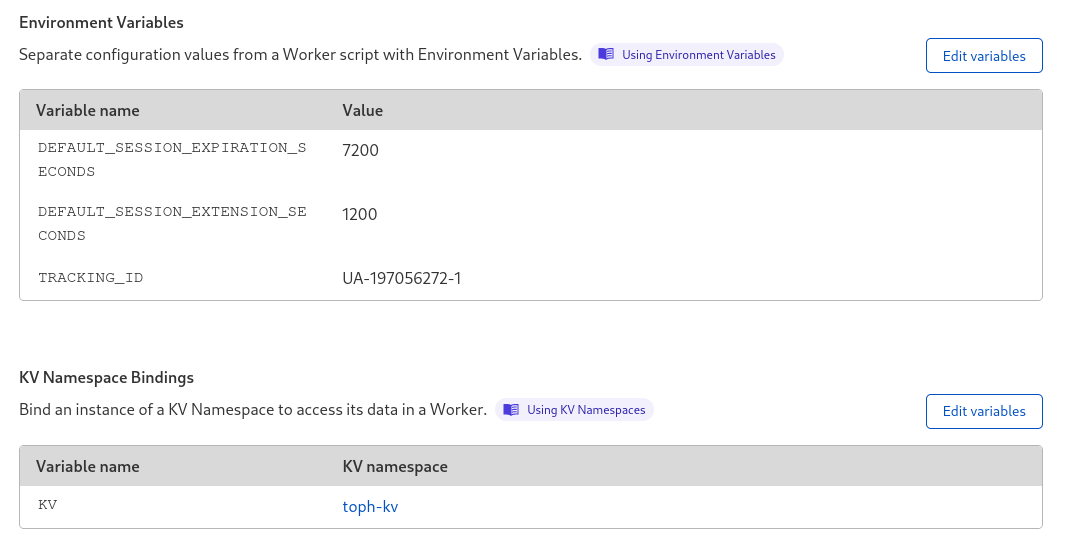
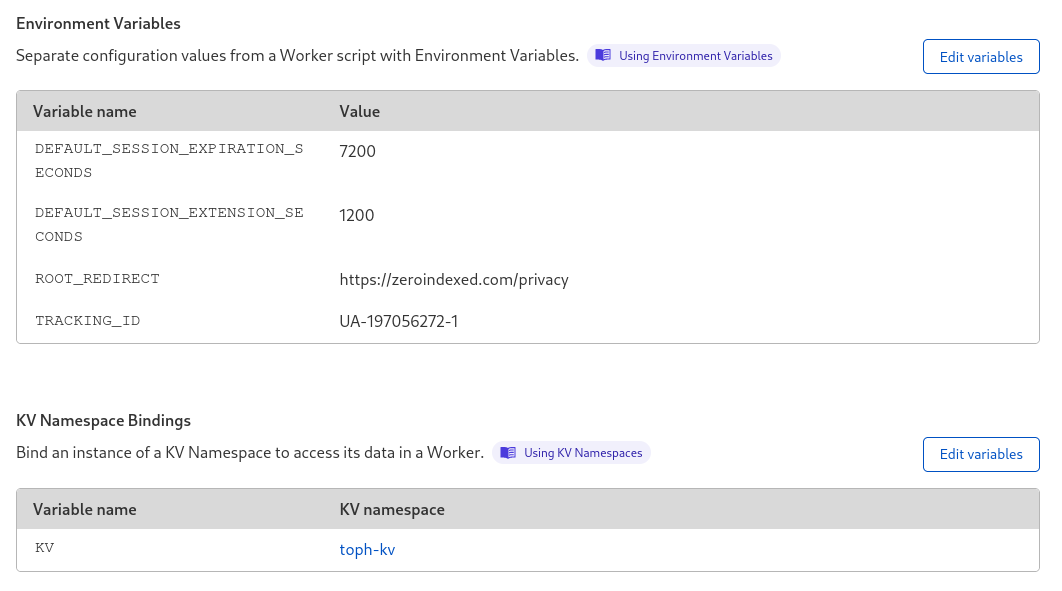
Toph now supports a redirect for the root path

diff --git a/packages/toph-pulumi/src/index.ts b/packages/toph-pulumi/src/index.ts
@@ -15,6 +15,7 @@ export interface TophArgs {
     trackingId: pulumi.Input<string>;
     defaultSessionExtensionSeconds: pulumi.Input<number>;
     defaultSessionExpirationSeconds: pulumi.Input<number>;
+    rootRedirect?: pulumi.Input<string>;
 }
 
 export class Toph extends pulumi.ComponentResource {
@@ -31,25 +32,34 @@ export class Toph extends pulumi.ComponentResource {
             {parent: this},
         );
 
+        const plainTextBindings: Array<cloudflare.types.input.WorkerScriptPlainTextBinding> = [
+            {
+                name: "TRACKING_ID",
+                text: args.trackingId,
+            },
+            {
+                name: "DEFAULT_SESSION_EXPIRATION_SECONDS",
+                text: `${args.defaultSessionExpirationSeconds}`,
+            },
+            {
+                name: "DEFAULT_SESSION_EXTENSION_SECONDS",
+                text: `${args.defaultSessionExtensionSeconds}`,
+            },
+        ];
+
+        if (args.rootRedirect != null) {
+            plainTextBindings.push({
+                name: "ROOT_REDIRECT",
+                text: args.rootRedirect,
+            });
+        }
+
         const workerScript = new cloudflare.WorkerScript(
             "toph",
             {
                 name: pulumi.concat(args.subdomain, "-worker"),
                 content: WORKER_SCRIPT,
-                plainTextBindings: [
-                    {
-                        name: "TRACKING_ID",
-                        text: args.trackingId,
-                    },
-                    {
-                        name: "DEFAULT_SESSION_EXPIRATION_SECONDS",
-                        text: `${args.defaultSessionExpirationSeconds}`,
-                    },
-                    {
-                        name: "DEFAULT_SESSION_EXTENSION_SECONDS",
-                        text: `${args.defaultSessionExtensionSeconds}`,
-                    },
-                ],
+                plainTextBindings,
                 kvNamespaceBindings: [
                     {
                         name: "KV",

diff --git a/packages/toph-worker/src/index.ts b/packages/toph-worker/src/index.ts
@@ -26,6 +26,7 @@ interface TophConfig {
     trackingId: string;
     defaultSessionExpiration: Expiration;
     defaultSessionExtension: Extension;
+    rootRedirect: string | null;
 }
 
 const TophConfig = {
@@ -56,11 +57,17 @@ const TophConfig = {
             throw new Error("KV is not an object");
         }
 
+        let rootRedirect: string | null = null;
+        if (typeof env["ROOT_REDIRECT"] === "string") {
+            rootRedirect = env["ROOT_REDIRECT"];
+        }
+
         return {
             kv: kv as KVNamespace,
             trackingId,
             defaultSessionExpiration,
             defaultSessionExtension,
+            rootRedirect,
         };
     },
 };
@@ -81,6 +88,22 @@ addEventListener("fetch", (event) => {
 async function onFetch(request: Request): Promise<Response> {
     const config = TophConfig.fromGlobalThis();
     const url = new URL(request.url);
+
+    if (url.pathname === "/") {
+        if (config.rootRedirect == null) {
+            return buildTextResponse({
+                status: 404,
+                body: "No ROOT_REDIRECT set",
+            });
+        } else {
+            return new Response("", {
+                status: 302,
+                headers: {
+                    "Location": config.rootRedirect,
+                },
+            });
+        }
+    }
 
     if (url.pathname === "/pageview") {
         const pageView = PageViewRequest.fromRequest(request, {

diff --git a/packages/pulumi/src/toph.ts b/packages/pulumi/src/toph.ts
@@ -10,5 +10,6 @@ export function makeToph(config: Config): void {
         trackingId: config.toph.trackingId,
         defaultSessionExpirationSeconds: 60 * 60 * 2, // 2 hours
         defaultSessionExtensionSeconds: 60 * 20, // 20 minutes
+        rootRedirect: `https://${config.cloudflare.zone}/privacy`,
     });
 }

diff --git a/packages/toph-worker/README.md b/packages/toph-worker/README.md
@@ -28,9 +28,24 @@ The `src` attribute tells the the browser to fetch the [`/pageview` API][this-ap
 
 ### API
 
-Toph supports a single endpoint, `/pageview`, which sends a [`t=pageview` hit][ga-pageview] to Google Universal Analytics.
+Toph supports a small HTTP API:
 
-`/pageview` does not care what HTTP method it was invoked with, `GET`, `POST`, `PUT`, etc. are all supported.
+-   `/`: intended to redirect curious visitors to a URL of your choosing, like a privacy policy.
+-   `/pageview`: collects page view hits and forwards them to Google Universal Analytics.
+
+---
+
+The `/` API will issue an HTTP 302 redirect to the configured `ROOT_REDIRECT` (see [deployment][this-deployment]).
+
+This environment variable is optional, not specifying it will result in `/` responded with HTTP 404.
+
+`/` does not distinguish what HTTP method it was invoked with.
+
+---
+
+`/pageview` sends a [`t=pageview` hit][ga-pageview] to Google Universal Analytics.
+
+`/pageview` does not distinguish what HTTP method it was invoked with.
 
 `/pageview` supports optional parameters passed as query parameters in the URL:
 
@@ -57,10 +72,11 @@ The related package [`@zeroindexed/toph-pulumi`][toph-pulumi] is a [Pulumi][pulu
 
 If you must do things manually, start by [downloading the bundled script][unpkg-toph-worker] and uploading it as a Cloudflare workers script under your own account. The following environment variables are required:
 
-- `KV`: A KV namespace binding to store unique visitor information.
-- `TRACKING_ID`: Google Universal Analytics ID to send hits to.
-- `DEFAULT_SESSION_EXPIRATION_SECONDS`: number of seconds before a unique visitor session ends.
-- `DEFAULT_SESSION_EXTENSION_SECONDS`: number of seconds before a visitor session refreshes.
+-   `KV`: Required, a KV namespace binding to store unique visitor information.
+-   `TRACKING_ID`: Required, Google Universal Analytics ID to send hits to.
+-   `DEFAULT_SESSION_EXPIRATION_SECONDS`: Required, number of seconds before a unique visitor session ends.
+-   `DEFAULT_SESSION_EXTENSION_SECONDS`: Required, number of seconds before a visitor session refreshes.
+-   `ROOT_REDIRECT`: Optional, URL that `/` will redirect to.
 
 ![Screenshot of an example Cloudflare workers configuration](screenshot.png)
 
@@ -128,7 +144,6 @@ If your website is popular, this writes per day limit is likely going to be the 
 
 -   Deal with the fact that you'll miss analytics events during these bouts of popularity.
 -   Pay the $5/month fixed cost (and whatever variable cost) to upgrade to the workers paid plan with at least 1 million writes per month. This cost can be amortized across other projects that also utilize Cloudflare workers as their deployment mechanism (**cough** [like a controller UI for valheim][valheimctl-worker] **cough**).
-
 
 [cloudflare-workers-analytics]: https://github.com/cloudflare/workers-google-analytics
 [cloudflare-workers-free-tier]: https://developers.cloudflare.com/workers/platform/limits#worker-limits

diff --git a/packages/toph-pulumi/README.md b/packages/toph-pulumi/README.md
@@ -29,6 +29,10 @@ new Toph("toph", {
     // to your usecase and see the `toph-worker` documentation.
     defaultSessionExpirationSeconds: 60 * 60 * 2, // 2 hours
     defaultSessionExtensionSeconds: 60 * 20, // 20 minutes
+
+    // Makes visiting https://toph.zeroindexed.com redirect to
+    // https://zeroindexed.com/privacy. This parameter is optional.
+    rootRedirect: "https://zeroindexed.com/privacy",
 });
 ```
 
